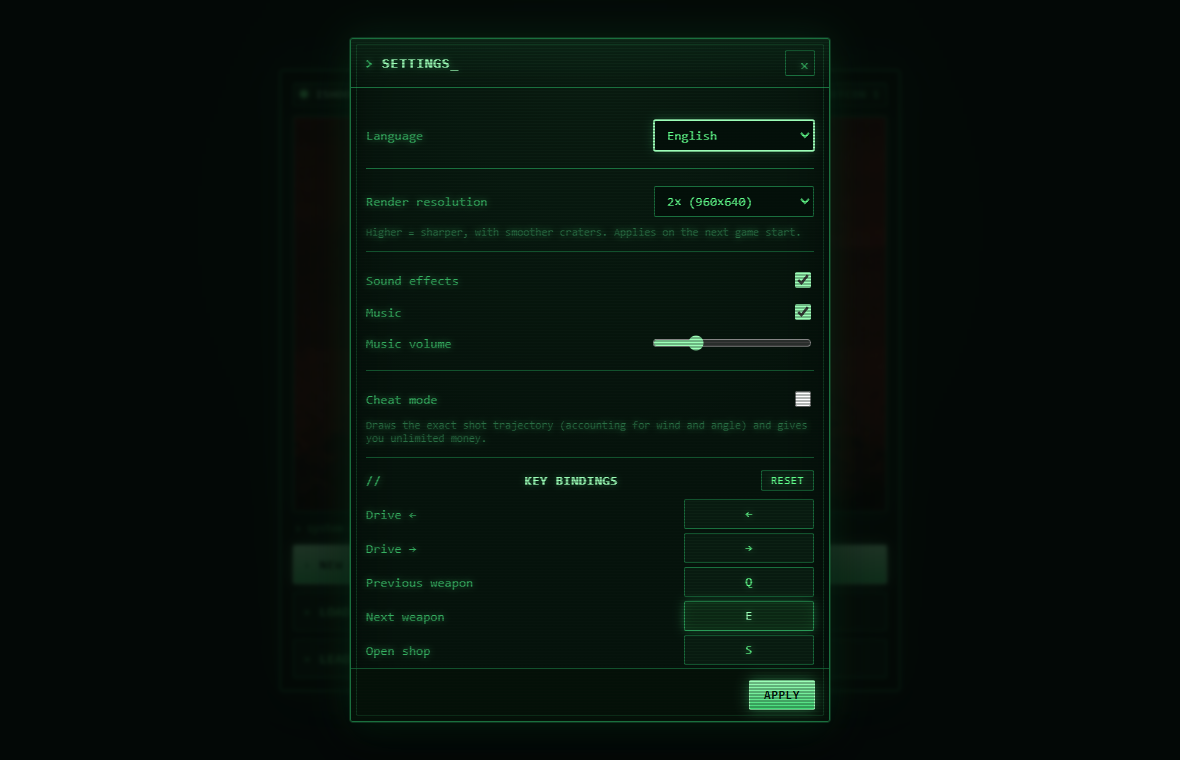
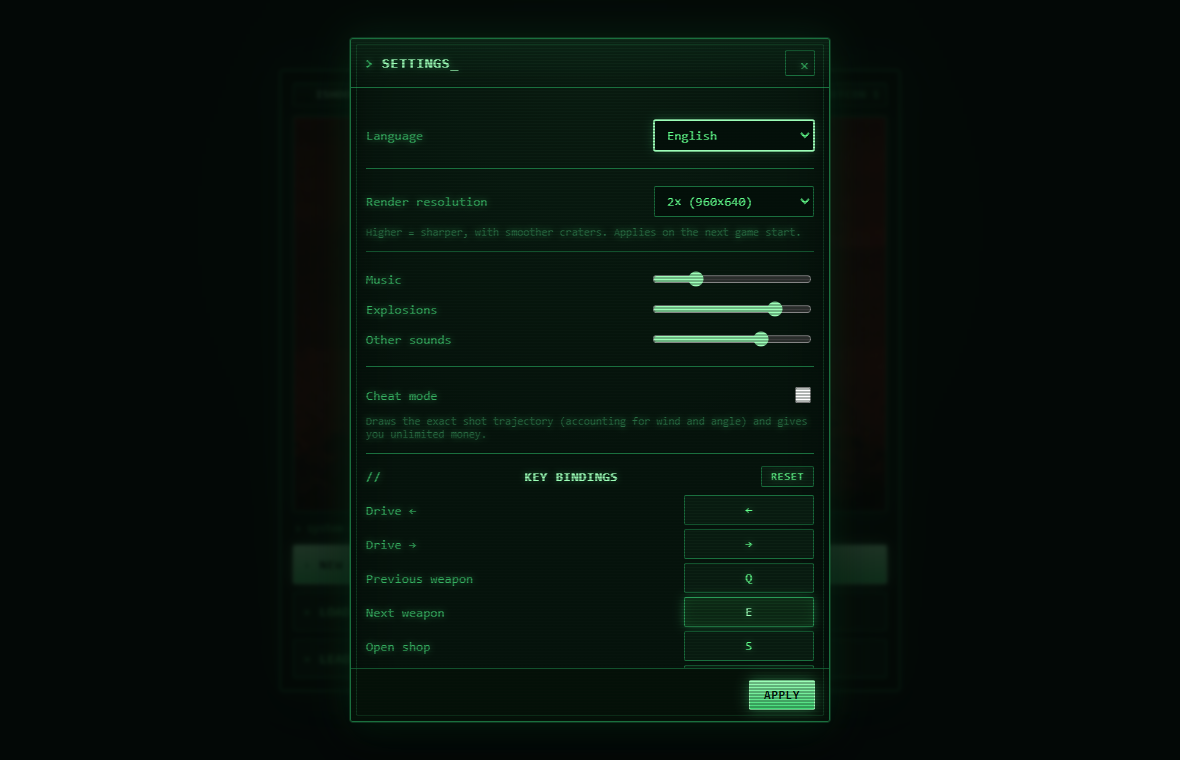
Audio overhaul + CPU pacing and driving improvements
- Music now starts on the first user gesture (already on the title screen),
  not only once a match begins.
- Separate volume sliders: Music / Explosions / Other sounds, replacing the
  single on/off toggles. SFX are categorized (explosion vs other) at call sites.
- Procedural tank-tread sound (Web Audio) while a tank drives (human or CPU).
- CPU turns are readable again: fast-forward only runs during projectile flight
  and terrain settling, never while a speech bubble is visible; gentler speed-up.
- CPU driving scales with difficulty and wind: Easy rarely repositions, Hard
  often, and all CPUs drive more in strong wind.
- i18n: Explosions / Other sounds labels added in all eight languages.

diff --git a/src/main.js b/src/main.js
@@ -4,6 +4,7 @@ import { Assets } from "./engine/assets.js";
 import { GameData } from "./game/data.js";
 import { createLoop } from "./engine/loop.js";
 import { bindInput } from "./engine/input.js";
+import { TreadSound } from "./engine/drivesound.js";
 import { DirtField } from "./game/terrain.js";
 import { Tank } from "./game/tank.js";
 import { Match } from "./game/match.js";
@@ -87,6 +88,7 @@ const PRELOAD_SFX = [
 ];
 
 let bgMusic = null;
+let treadSound = null;
 
 const DEFAULT_INVENTORY = [
   { key: "miniMortar",      count: -1 },
@@ -172,6 +174,18 @@ async function init() {
   }
 
   title.show();
+
+  // Start music on the first user gesture (browsers block autoplay before one)
+  // so it already plays on the title screen — not only once a match begins.
+  const startAudioOnce = () => {
+    try { assets.getAudioContext().resume(); } catch {}
+    startBackgroundMusic();
+    refreshAudioSettings();
+    window.removeEventListener("pointerdown", startAudioOnce);
+    window.removeEventListener("keydown", startAudioOnce);
+  };
+  window.addEventListener("pointerdown", startAudioOnce);
+  window.addEventListener("keydown", startAudioOnce);
 
   bindInput(canvas, {
     onPointerDown: (e) => {
@@ -353,7 +367,10 @@ async function doLoad(slot) {
     }
     for (const t of m.tanks) t.setSprites(assets);
     match = m;
-    match.playSfx = (name) => { if (settings.soundOn) assets.playSfx(name); };
+    match.playSfx = (name, kind = "sfx") => {
+      const v = kind === "explosion" ? settings.explosionVolume : settings.sfxVolume;
+      if (v > 0) assets.playSfx(name, { volume: v });
+    };
     match.onMatchOver = () => onMatchOver(match);
     match.onRoundOver = () => onRoundOver(match);
     hud = new Hud(match, assets);
@@ -399,8 +416,8 @@ function startBackgroundMusic() {
     const audio = new Audio(assets.pathOf(`Music${idx}.mp3`));
     audio.loop = true;
     audio.volume = settings.musicVolume;
-    audio.muted = !settings.musicOn;
-    if (settings.musicOn) audio.play().catch(() => {});
+    audio.muted = settings.musicVolume <= 0;
+    if (settings.musicVolume > 0) audio.play().catch(() => {});
     bgMusic = audio;
   } catch {
     /* Pfad evtl. nicht gemappt — Musik ist optional */
@@ -411,38 +428,52 @@ function startBackgroundMusic() {
 function refreshAudioSettings() {
   if (bgMusic) {
     bgMusic.volume = settings.musicVolume;
-    bgMusic.muted = !settings.musicOn;
-    if (settings.musicOn && bgMusic.paused) bgMusic.play().catch(() => {});
-    if (!settings.musicOn && !bgMusic.paused) bgMusic.pause();
+    bgMusic.muted = settings.musicVolume <= 0;
+    if (settings.musicVolume > 0 && bgMusic.paused) bgMusic.play().catch(() => {});
+    if (settings.musicVolume <= 0 && !bgMusic.paused) bgMusic.pause();
   }
 }
 
 function tick() {
-  if (paused || !match || !hud) return;
+  if (paused || !match || !hud) {
+    treadSound?.setActive(false, settings.sfxVolume);
+    return;
+  }
+  const curT = match.currentTank();
+  const xBefore = curT ? curT.x : null;
   if (match.isAcceptingInput() && !hud.charging) {
-    const t = match.currentTank();
-    if (t?.controller === 0) {
-      if (driveKeys.left)  t.drive(-1, dirtField, match.tanks, match.rules);
-      if (driveKeys.right) t.drive(+1, dirtField, match.tanks, match.rules);
+    if (curT?.controller === 0) {
+      if (driveKeys.left)  curT.drive(-1, dirtField, match.tanks, match.rules);
+      if (driveKeys.right) curT.drive(+1, dirtField, match.tanks, match.rules);
     }
   }
   hud.tick();
   match.tick();
 
-  // FastForward NUR während der CPU am Zug ist — entscheidend ist der
-  // aktuelle Spieler, nicht weapon.source (die Death-Explosion eines
-  // CPU-Opfers hätte sonst bei einem Menschen-Schuss FF getriggert →
-  // "alles nach der Explosion im Zeitraffer"-Bug).
+  // FastForward NUR während der CPU am Zug ist, und nur während Geschoss-Flug
+  // und Terrain-Setzen (state "firing"/"animating") — NICHT während des Zielens
+  // und NICHT solange eine Sprechblase sichtbar ist. So bleiben die CPU-Sprüche
+  // lesbar und der Zug wirkt nicht "vorgespult". Entscheidend ist der aktuelle
+  // Spieler (nicht weapon.source — sonst Zeitraffer-Bug nach Death-Explosion).
   if (match.rules.fastForward) {
     const cur = match.currentTank();
-    const cpuTurn = cur && cur.controller > 0
-      && match.state !== "gameover" && match.state !== "roundover";
-    if (cpuTurn) {
-      for (let i = 0; i < 3 && match.state !== "gameover" && match.state !== "roundover"; i++) {
+    const ffState = match.state === "firing" || match.state === "animating";
+    const ffOk = cur && cur.controller > 0 && ffState && !match.anyQuoteActive();
+    if (ffOk) {
+      for (let i = 0; i < 2
+        && (match.state === "firing" || match.state === "animating")
+        && !match.anyQuoteActive(); i++) {
         match.tick();
       }
     }
   }
+
+  // Tank-tread sound while a tank actually moves (human keys or CPU driving).
+  const curNow = match.currentTank();
+  const driving = !!(curNow && curNow === curT && xBefore !== null
+    && !curNow.isDead() && curNow.x !== xBefore);
+  if (driving && !treadSound) treadSound = new TreadSound(assets.getAudioContext());
+  treadSound?.setActive(driving, settings.sfxVolume);
 }
 
 function render() {
@@ -535,7 +566,10 @@ function startNewMatch(cfg) {
         width: W, height: H,
         rounds: cfg.rounds ?? 3,
       });
-      match.playSfx = (name) => { if (settings.soundOn) assets.playSfx(name); };
+      match.playSfx = (name, kind = "sfx") => {
+      const v = kind === "explosion" ? settings.explosionVolume : settings.sfxVolume;
+      if (v > 0) assets.playSfx(name, { volume: v });
+    };
       match.onMatchOver = () => onMatchOver(match);
       match.onRoundOver = () => onRoundOver(match);
       match.currentLandscapeName = pick.landscape;

diff --git a/src/ui/settings.js b/src/ui/settings.js
@@ -18,9 +18,9 @@ export const DEFAULT_KEYS = {
 /** Global settings object — read directly by main.js. */
 export const settings = {
   renderScale: 2,
-  soundOn: true,
-  musicOn: true,
   musicVolume: 0.25,
+  explosionVolume: 0.8,
+  sfxVolume: 0.7,
   cheat: false,
   keys: { ...DEFAULT_KEYS },
 };
@@ -31,9 +31,9 @@ export function loadSettings() {
     if (raw) {
       const s = JSON.parse(raw);
       if ([1, 2, 3].includes(s.renderScale)) settings.renderScale = s.renderScale;
-      if (typeof s.soundOn === "boolean") settings.soundOn = s.soundOn;
-      if (typeof s.musicOn === "boolean") settings.musicOn = s.musicOn;
       if (typeof s.musicVolume === "number") settings.musicVolume = s.musicVolume;
+      if (typeof s.explosionVolume === "number") settings.explosionVolume = s.explosionVolume;
+      if (typeof s.sfxVolume === "number") settings.sfxVolume = s.sfxVolume;
       if (typeof s.cheat === "boolean") settings.cheat = s.cheat;
       settings.keys = { ...DEFAULT_KEYS, ...(s.keys || {}) };
     }
@@ -64,9 +64,9 @@ export class SettingsUI {
     this.onApply = onApply;
     this.el = document.getElementById("settings");
     this.scaleSel = document.getElementById("settings-scale");
-    this.soundCb = document.getElementById("settings-sound");
-    this.musicCb = document.getElementById("settings-music");
-    this.volSlider = document.getElementById("settings-volume");
+    this.musicVol = document.getElementById("settings-vol-music");
+    this.explVol = document.getElementById("settings-vol-expl");
+    this.sfxVol = document.getElementById("settings-vol-sfx");
     this.keyList = document.getElementById("settings-keys");
     this.langSel = document.getElementById("settings-language");
     this.cheatCb = document.getElementById("settings-cheat");
@@ -103,9 +103,9 @@ export class SettingsUI {
 
   open() {
     this.scaleSel.value = String(settings.renderScale);
-    this.soundCb.checked = settings.soundOn;
-    this.musicCb.checked = settings.musicOn;
-    this.volSlider.value = String(Math.round(settings.musicVolume * 100));
+    if (this.musicVol) this.musicVol.value = String(Math.round(settings.musicVolume * 100));
+    if (this.explVol)  this.explVol.value  = String(Math.round(settings.explosionVolume * 100));
+    if (this.sfxVol)   this.sfxVol.value   = String(Math.round(settings.sfxVolume * 100));
     if (this.langSel) this.langSel.value = getLang();
     if (this.cheatCb) this.cheatCb.checked = settings.cheat;
     this._renderKeys();
@@ -136,9 +136,10 @@ export class SettingsUI {
 
   _apply() {
     settings.renderScale = parseInt(this.scaleSel.value, 10) || 2;
-    settings.soundOn = this.soundCb.checked;
-    settings.musicOn = this.musicCb.checked;
-    settings.musicVolume = Math.max(0, Math.min(1, (+this.volSlider.value || 0) / 100));
+    const pct = (el, def) => el ? Math.max(0, Math.min(1, (+el.value || 0) / 100)) : def;
+    settings.musicVolume = pct(this.musicVol, settings.musicVolume);
+    settings.explosionVolume = pct(this.explVol, settings.explosionVolume);
+    settings.sfxVolume = pct(this.sfxVol, settings.sfxVolume);
     if (this.cheatCb) settings.cheat = this.cheatCb.checked;
     persist();
     this.onApply?.(settings);

diff --git a/src/game/ai.js b/src/game/ai.js
@@ -8,7 +8,6 @@
 import { POWER_SCALE, GRAVITY_FACTOR, WIND_FACTOR } from "./weapon.js";
 
 const THINK_DELAY_TICKS = 24;     // ~0.8 s sichtbares "Nachdenken"
-const DRIVE_TICKS_PER_TURN = 30;  // Maximum-Fahrleistung pro Turn
 
 // Schuss-Fehler je Schwierigkeit: NACHDEM die ideale Lösung gefunden wurde,
 // wird Winkel/Power verrauscht. Das bestimmt die echte Trefferquote — Easy
@@ -40,7 +39,7 @@ export class AI {
 
     if (tank !== this._lastTank) {
       this._thinking = 0;
-      this._driveBudget = DRIVE_TICKS_PER_TURN;
+      this._driveBudget = this._driveAllowance(tank);
       this._lastTank = tank;
       // Einmal pro Turn: evtl. bessere Waffen kaufen + Waffe festlegen.
       this._maybeBuyWeapons(tank);
@@ -55,8 +54,11 @@ export class AI {
     // Ggf. erst fahren, wenn keine gute Lösung von hier
     if (this._driveBudget > 0 && tank.fuel > 0) {
       const probe = this._findSolution(tank, target);
-      // Wenn Treffer schon gut (< target.width/2), nicht mehr fahren
-      const wantDrive = probe.dist > target.width() * 0.5;
+      // Fahr-Bereitschaft je Schwierigkeit: Easy fährt nur bei sehr schlechter
+      // Lösung, Hard repositioniert schon bei kleinen Abweichungen.
+      const diff = tank.controller;
+      const driveThresh = diff === 1 ? 1.2 : diff === 2 ? 0.7 : 0.45;
+      const wantDrive = probe.dist > target.width() * driveThresh;
       if (wantDrive) {
         const dir = target.x < tank.x ? -1 : +1;
         if (tank.drive(dir, m.dirtField, m.tanks, m.rules)) {
@@ -81,6 +83,16 @@ export class AI {
   }
 
   // -------------------------------------------------------------------------
+
+  /** Fahr-Budget (Bewegungen) pro Turn: steigt mit der Schwierigkeit und mit
+   *  starkem Wind — bei viel Wind lohnt sich Repositionieren mehr. */
+  _driveAllowance(tank) {
+    const diff = tank.controller;
+    const base = diff === 1 ? 6 : diff === 2 ? 16 : 28;
+    const maxWind = this.match.rules.maxWind || 0;
+    const windFrac = maxWind > 0 ? Math.min(1, Math.abs(this.match.wind) / maxWind) : 0;
+    return Math.round(base * (1 + windFrac * 0.8));   // bis zu +80 % bei Maximalwind
+  }
 
   _selectTarget(tank) {
     const enemies = this.match.tanks.filter((t) => t !== tank && !t.isDead());

diff --git a/src/engine/drivesound.js b/src/engine/drivesound.js
@@ -1,0 +1,46 @@
+// Procedural tank-tread / engine sound (Web Audio, no asset file needed).
+// A low engine rumble plus a rhythmic tremolo that reads as moving treads.
+// Gated by setActive(): ramps in while a tank drives, out when it stops.
+
+export class TreadSound {
+  constructor(ctx) {
+    this.ctx = ctx;
+    this._nodes = null;
+    this._on = false;
+  }
+
+  _build() {
+    const ctx = this.ctx;
+    // Engine rumble: low sawtooth through a lowpass.
+    const osc = ctx.createOscillator();
+    osc.type = "sawtooth";
+    osc.frequency.value = 56;
+    const lp = ctx.createBiquadFilter();
+    lp.type = "lowpass"; lp.frequency.value = 230; lp.Q.value = 0.7;
+
+    // Tread "clank" rhythm: a square LFO modulating a tremolo gain.
+    const trem = ctx.createGain(); trem.gain.value = 0.55;
+    const lfo = ctx.createOscillator(); lfo.type = "square"; lfo.frequency.value = 11;
+    const lfoDepth = ctx.createGain(); lfoDepth.gain.value = 0.45;
+    lfo.connect(lfoDepth).connect(trem.gain);
+
+    // Master gate (starts silent; setActive ramps it).
+    const master = ctx.createGain(); master.gain.value = 0;
+    osc.connect(lp).connect(trem).connect(master).connect(ctx.destination);
+    osc.start(); lfo.start();
+    this._nodes = { osc, lfo, master };
+  }
+
+  /** @param on driving? @param volume 0..1 (tied to the "other sounds" slider) */
+  setActive(on, volume = 0.5) {
+    if (!this.ctx) return;
+    if (on && !this._nodes) this._build();
+    if (!this._nodes) return;
+    const now = this.ctx.currentTime;
+    const g = this._nodes.master.gain;
+    const target = on ? Math.max(0, Math.min(1, volume)) * 0.45 : 0;  // keep it subtle
+    g.cancelScheduledValues(now);
+    g.setTargetAtTime(target, now, 0.05);
+    this._on = on;
+  }
+}

diff --git a/index.html b/index.html
@@ -508,9 +508,9 @@
           <p class="settings-hint" data-i18n="settings.renderHint">Higher = sharper, with smoother craters. Applies on the next game start.</p>
         </div>
         <div class="settings-section">
-          <label class="settings-row"><span data-i18n="settings.sound">Sound effects</span><input type="checkbox" id="settings-sound"></label>
-          <label class="settings-row"><span data-i18n="settings.music">Music</span><input type="checkbox" id="settings-music"></label>
-          <label class="settings-row"><span data-i18n="settings.musicVolume">Music volume</span><input type="range" id="settings-volume" min="0" max="100"></label>
+          <label class="settings-row"><span data-i18n="settings.music">Music</span><input type="range" id="settings-vol-music" min="0" max="100"></label>
+          <label class="settings-row"><span data-i18n="settings.explosions">Explosions</span><input type="range" id="settings-vol-expl" min="0" max="100"></label>
+          <label class="settings-row"><span data-i18n="settings.otherSounds">Other sounds</span><input type="range" id="settings-vol-sfx" min="0" max="100"></label>
         </div>
         <div class="settings-section">
           <label class="settings-row"><span data-i18n="settings.cheatMode">Cheat mode</span><input type="checkbox" id="settings-cheat"></label>

diff --git a/src/game/weapon.js b/src/game/weapon.js
@@ -184,7 +184,7 @@ export class ShellWeapon {
     // Original: currentRadius startet bei blastRadius/2 → halber Krater
     // sofort beim Aufprall, wächst dann hoch.
     this.currentRadius = this.blastRadius * 0.5;
-    if (this.explosionSoundName) match.playSfx?.(this.explosionSoundName);
+    if (this.explosionSoundName) match.playSfx?.(this.explosionSoundName, "explosion");
     // Schaden + Effekte sofort beim Aufprall (responsiv, Hand-in-Hand mit
     // dem ersten Krater). Das Graben selbst läuft progressiv in advance().
     this._detonate(match);
@@ -633,7 +633,7 @@ class SkylanceWeapon extends ShellWeapon {
     if (this.exploding) return;
     this.exploding = true;
     this.finished = true;        // Effekt sofort, keine Wachstumsanimation
-    if (this.explosionSoundName) match.playSfx?.(this.explosionSoundName);
+    if (this.explosionSoundName) match.playSfx?.(this.explosionSoundName, "explosion");
 
     if (this.createDirt) {
       // Great Wall: errichtet eine vertikale Säule (baut Terrain auf).

diff --git a/src/i18n/ru.js b/src/i18n/ru.js
@@ -47,6 +47,8 @@ export default {
     "settings.renderHint": "Выше = чётче, с более плавными воронками. Применяется при следующем запуске игры.",
     "settings.sound": "Звуковые эффекты",
     "settings.music": "Музыка",
+    "settings.explosions": "Взрывы",
+    "settings.otherSounds": "Прочие звуки",
     "settings.musicVolume": "Громкость музыки",
     "settings.cheatMode": "Режим читов",
     "settings.cheatHint": "Рисует точную траекторию выстрела (с учётом ветра и угла) и даёт неограниченные деньги.",

diff --git a/src/game/match.js b/src/game/match.js
@@ -108,6 +108,10 @@ export class Match {
   currentTank() { return this.tanks[this.currentPlayerIndex] ?? null; }
   aliveTanks() { return this.tanks.filter(t => !t.isDead()); }
 
+  /** True solange eine Sprechblase sichtbar ist — damit der Fast-Forward
+   *  pausiert und CPU-Sprüche lesbar bleiben. */
+  anyQuoteActive() { return this.effects.some((e) => e instanceof Quote); }
+
   /** Sucht den nächsten lebenden Spieler im Kreis. Setzt state="gameover",
    *  wenn keiner mehr lebt. Verändert NICHT this.round — die Match-Runde
    *  zählt nur beginNewRound hoch (Turn-Cycle ≠ Match-Runde!). */

diff --git a/src/i18n/fr.js b/src/i18n/fr.js
@@ -47,6 +47,8 @@ export default {
     "settings.renderHint": "Plus élevé = plus net, avec des cratères plus lisses. S'applique au prochain démarrage de partie.",
     "settings.sound": "Effets sonores",
     "settings.music": "Musique",
+    "settings.explosions": "Explosions",
+    "settings.otherSounds": "Autres sons",
     "settings.musicVolume": "Volume de la musique",
     "settings.cheatMode": "Mode triche",
     "settings.cheatHint": "Trace la trajectoire exacte du tir (en tenant compte du vent et de l'angle) et vous donne de l'argent illimité.",

diff --git a/src/i18n/es.js b/src/i18n/es.js
@@ -56,6 +56,8 @@ export default {
     "settings.renderHint": "Mayor = más nítido, con cráteres más suaves. Se aplica al iniciar la próxima partida.",
     "settings.sound": "Efectos de sonido",
     "settings.music": "Música",
+    "settings.explosions": "Explosiones",
+    "settings.otherSounds": "Otros sonidos",
     "settings.musicVolume": "Volumen de la música",
     "settings.cheatMode": "Modo trucos",
     "settings.cheatHint": "Dibuja la trayectoria exacta del disparo (teniendo en cuenta el viento y el ángulo) y te da dinero ilimitado.",

diff --git a/src/i18n/it.js b/src/i18n/it.js
@@ -56,6 +56,8 @@ export default {
     "settings.renderHint": "Più alta = più nitida, con crateri più morbidi. Si applica al prossimo avvio della partita.",
     "settings.sound": "Effetti sonori",
     "settings.music": "Musica",
+    "settings.explosions": "Esplosioni",
+    "settings.otherSounds": "Altri suoni",
     "settings.musicVolume": "Volume musica",
     "settings.cheatMode": "Modalità trucchi",
     "settings.cheatHint": "Disegna la traiettoria esatta del tiro (tenendo conto di vento e angolo) e ti dà denaro illimitato.",

diff --git a/src/i18n/pt.js b/src/i18n/pt.js
@@ -47,6 +47,8 @@ export default {
     "settings.renderHint": "Mais alta = mais nítida, com crateras mais suaves. Aplica-se no próximo início de jogo.",
     "settings.sound": "Efeitos sonoros",
     "settings.music": "Música",
+    "settings.explosions": "Explosões",
+    "settings.otherSounds": "Outros sons",
     "settings.musicVolume": "Volume da música",
     "settings.cheatMode": "Modo de batota",
     "settings.cheatHint": "Desenha a trajetória exata do tiro (tendo em conta o vento e o ângulo) e dá-te dinheiro ilimitado.",
